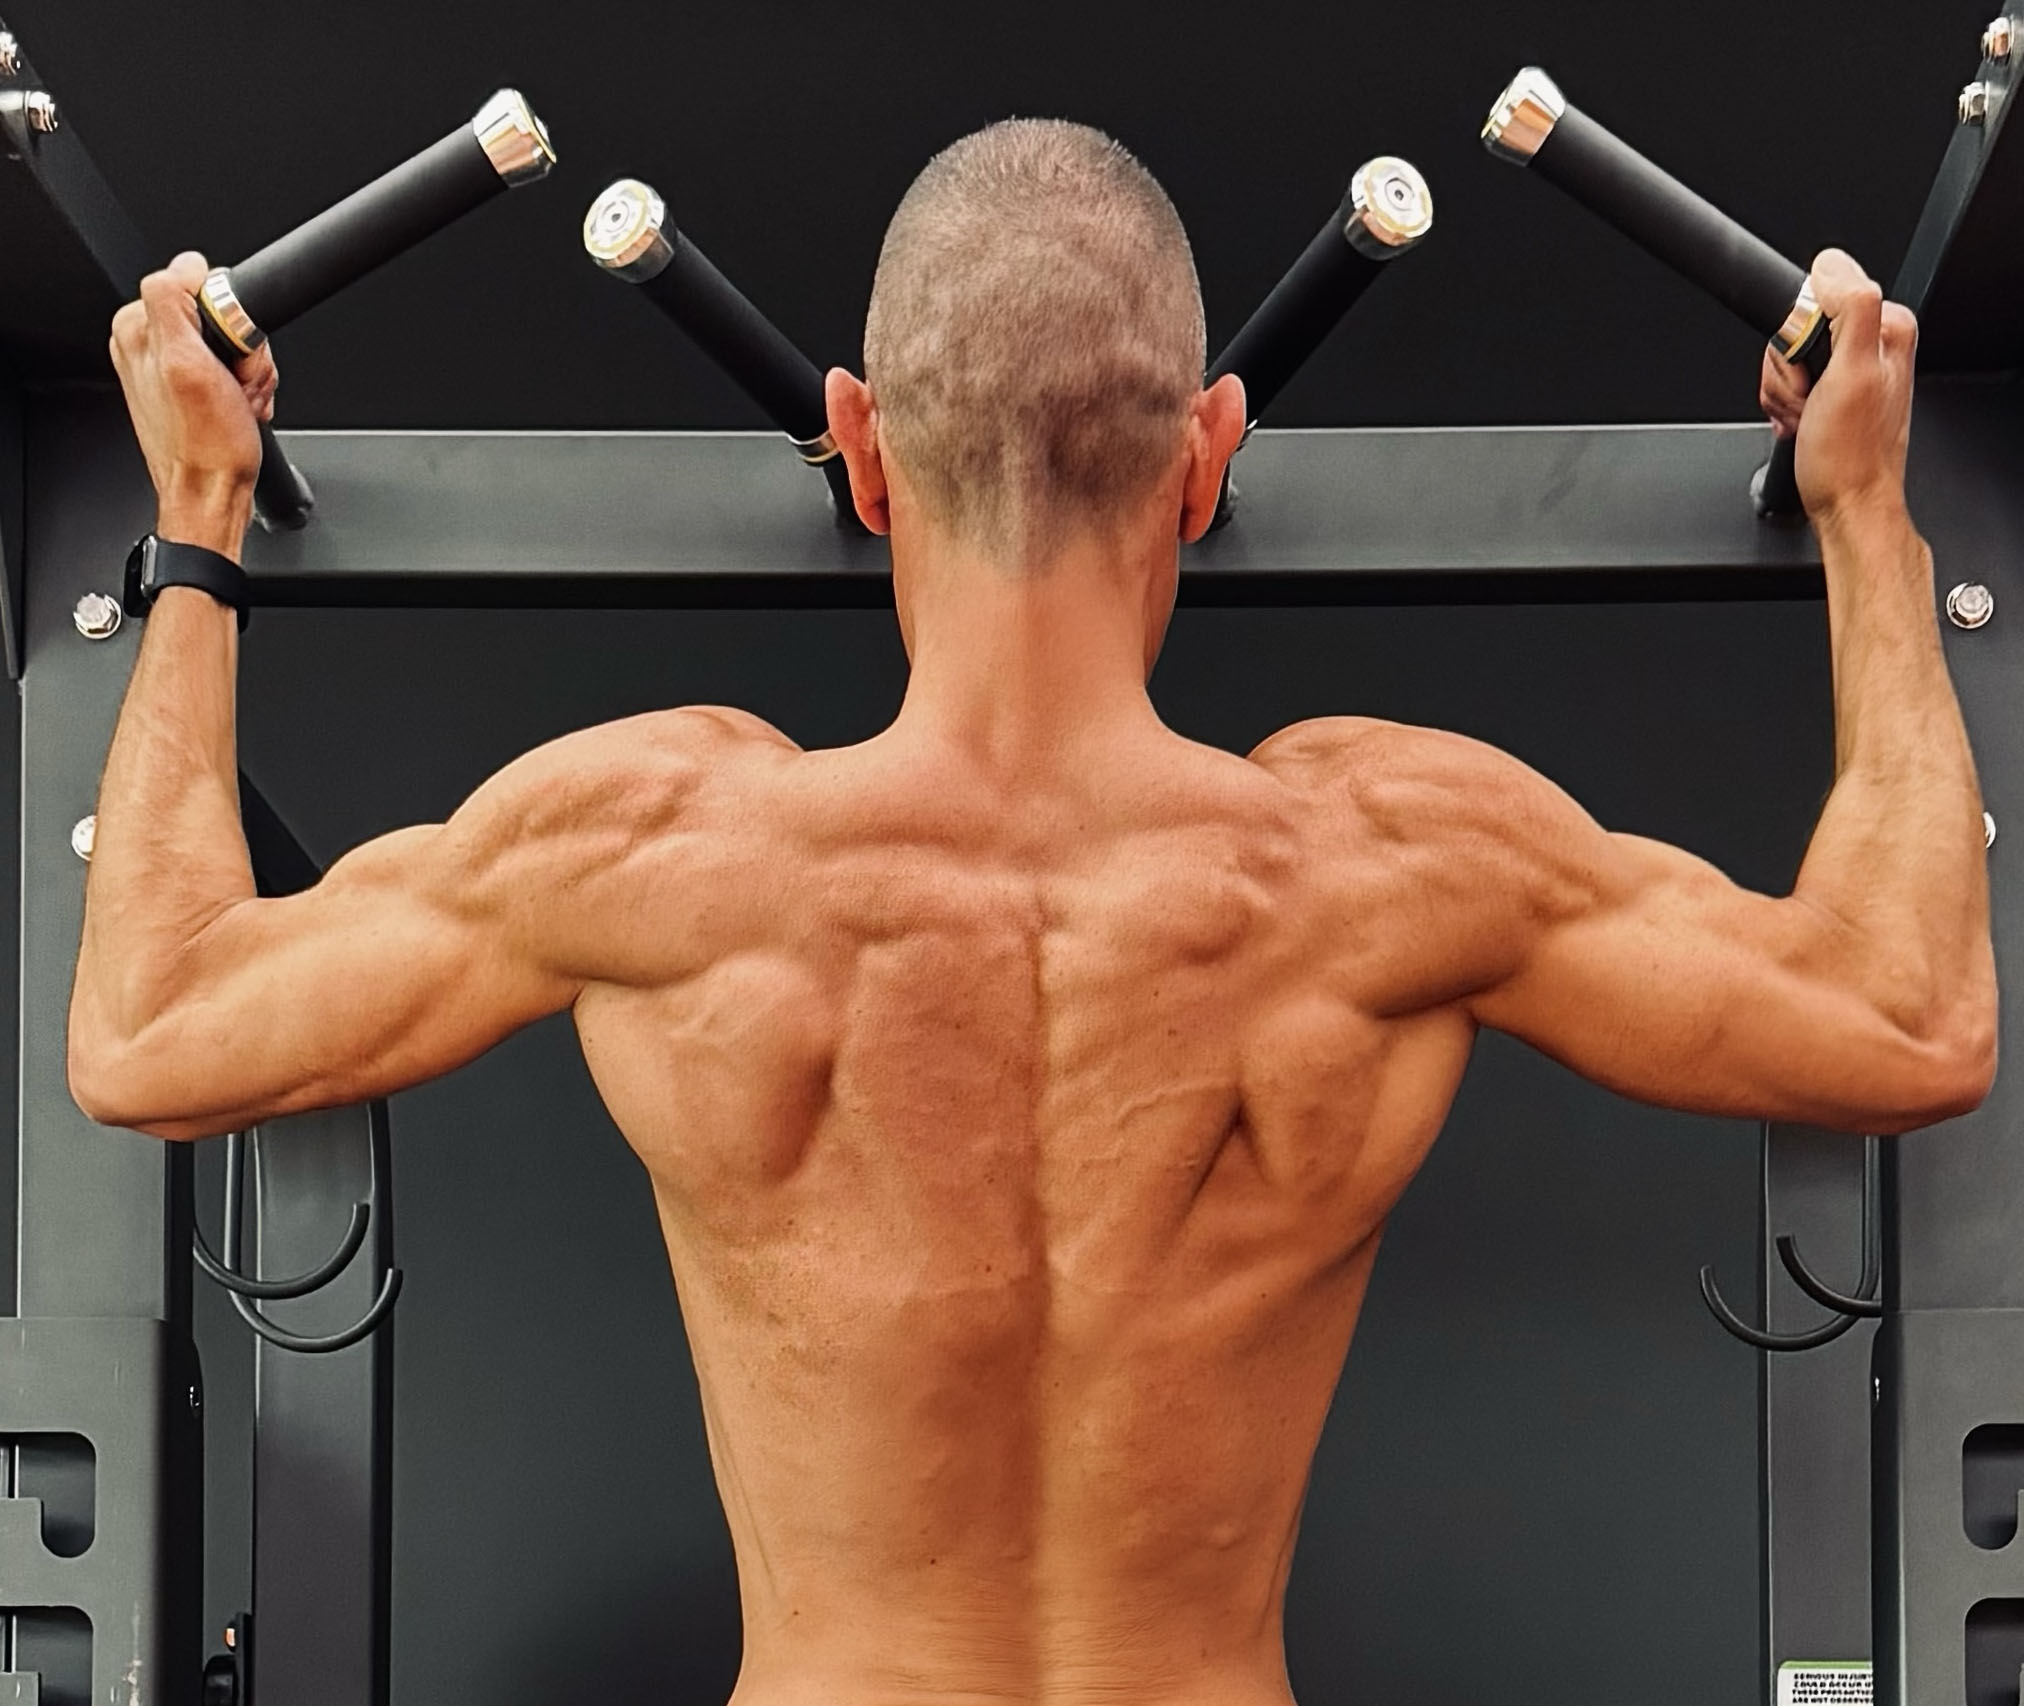
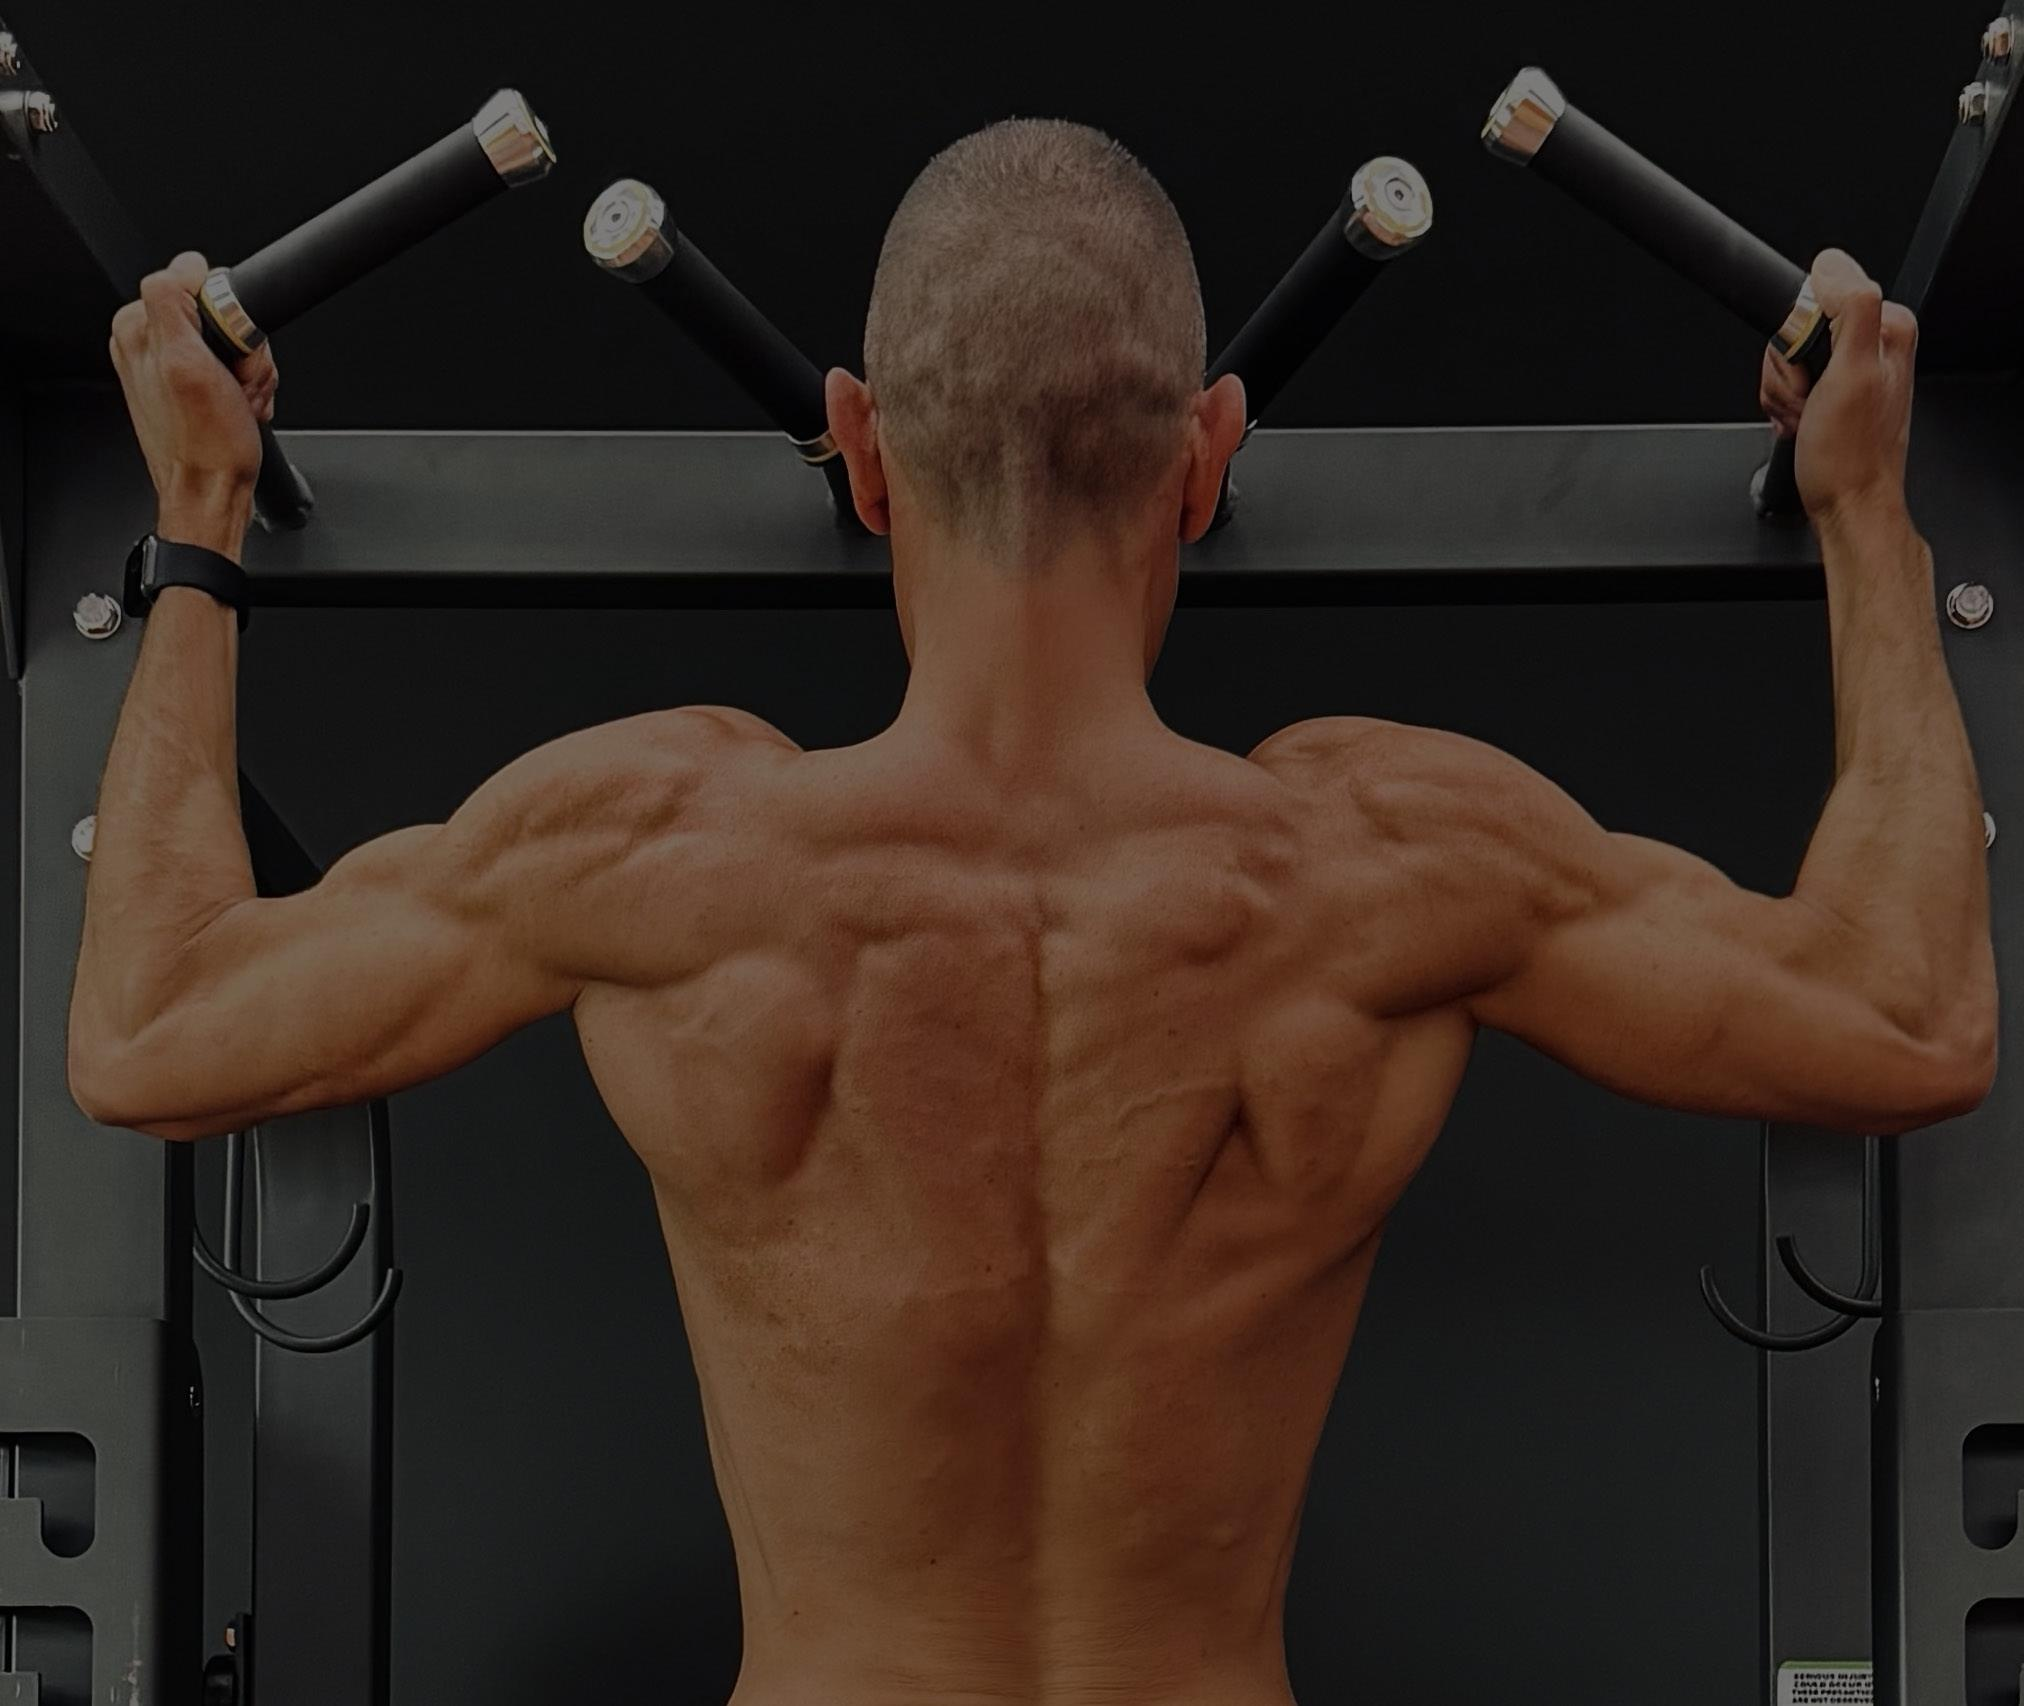
replced images with fixes

diff --git a/elite.html b/elite.html
@@ -163,7 +163,7 @@
       <div class=" mx-auto">
         <div class="flex flex-col md:flex-row">
              <!-- Image Section -->
-             <div class="relative w-full md:w-1/2 h-550 trainer-pic-block elite">
+             <div class="relative w-full md:w-1/2 h-m-550 trainer-pic-block elite">
             </div>
           <!-- Text Section -->
           <div class="p-10 lg:p-20 md:w-1/2 bg-black opacity-90">
@@ -263,57 +263,57 @@
           <div class="flex w-1/2 flex-wrap">
             <div class="w-1/2 p-2 fade-in fade-in-1">
               <img alt="gallery" class="block h-full w-full rounded-md object-cover object-center"
-                src="assets/beat/beat_1.JPG" />
+                src="assets/elite/elite1.JPG" />
             </div>
             <div class="w-1/2 p-2 fade-in fade-in-1">
               <img alt="gallery" class="block h-full w-full rounded-md object-cover object-center"
-                src="assets/temp_images/gallery-3.jpg" />
+                src="assets/elite/elite2.JPG" />
             </div>
             <div class="w-full p-2 fade-in fade-in-1">
               <img alt="gallery" class="block h-full w-full rounded-md object-cover object-center"
-                src="assets/beat/beat_2.JPG" />
+                src="assets/elite/elite3.JPG" />
             </div>
           </div>
           <div class="flex w-1/2 flex-wrap ">
             <div class="w-full p-2 fade-in fade-in-2">
               <img alt="gallery" class="block h-full w-full rounded-md object-cover object-center"
-                src="assets/temp_images/gallery-5.jpg" />
+                src="assets/elite/elite4.JPG" />
             </div>
             <div class="w-1/2 p-2 fade-in fade-in-2">
               <img alt="gallery" class="block h-full w-full rounded-md object-cover object-center"
-                src="assets/beat/beat_main.JPG" />
+                src="assets/elite/elite5.JPG" />
             </div>
             <div class="w-1/2 p-2 fade-in fade-in-2">
               <img alt="gallery" class="block h-full w-full rounded-md object-cover object-center"
-                src="assets/temp_images/gallery-4.jpg" />
+                src="assets/elite/elite6.JPG" />
             </div>
           </div>
           <div class="flex w-1/2 flex-wrap">
             <div class="w-1/2 p-2 fade-in fade-in-1">
               <img alt="gallery" class="block h-full w-full rounded-md object-cover object-center"
-                src="assets/temp_images/gallery-3.jpg" />
+                src="assets/elite/elite7.JPG" />
             </div>
             <div class="w-1/2 p-2 fade-in fade-in-1">
               <img alt="gallery" class="block h-full w-full rounded-md object-cover object-center"
-                src="assets/temp_images/gallery-4.jpg" />
+                src="assets/elite/elite8.JPG" />
             </div>
             <div class="w-full p-2 fade-in fade-in-1">
               <img alt="gallery" class="block h-full w-full rounded-md object-cover object-center"
-                src="assets/temp_images/gallery-2.jpg" />
+                src="assets/elite/elite9.JPG" />
             </div>
           </div>
           <div class="flex w-1/2 flex-wrap ">
             <div class="w-full p-2 fade-in fade-in-2">
               <img alt="gallery" class="block h-full w-full rounded-md object-cover object-center"
-                src="assets/temp_images/gallery-5.jpg" />
+                src="assets/elite/elite10.JPG" />
             </div>
             <div class="w-1/2 p-2 fade-in fade-in-2">
               <img alt="gallery" class="block h-full w-full rounded-md object-cover object-center"
-                src="assets/temp_images/gallery-3.jpg" />
+                src="assets/elite/elite11.JPG" />
             </div>
             <div class="w-1/2 p-2 fade-in fade-in-2">
               <img alt="gallery" class="block h-full w-full rounded-md object-cover object-center"
-                src="assets/temp_images/gallery-6.jpg" />
+                src="assets/elite/elite12.JPG" />
             </div>
           </div>
         </div>

diff --git a/hybrid.html b/hybrid.html
@@ -157,7 +157,7 @@
       <div class=" mx-auto">
         <div class="flex flex-col md:flex-row">
              <!-- Image Section -->
-             <div class="relative w-full md:w-1/2 h-550 trainer-pic-block hybrid">
+             <div class="relative w-full md:w-1/2 h-m-550 trainer-pic-block hybrid">
             </div>
           <!-- Text Section -->
           <div class="p-10 lg:p-20 md:w-1/2 bg-black opacity-90">
@@ -253,32 +253,32 @@
           <div class="flex w-1/2 flex-wrap">
             <div class="w-1/2 p-2 fade-in fade-in-1">
               <img alt="gallery" class="block h-full w-full rounded-md object-cover object-center"
-                src="assets/temp_images/gallery-2.jpg" />
+                src="assets/hybrid/hybrid-main.JPG" />
             </div>
             <div class="w-1/2 p-2 fade-in fade-in-1">
               <img alt="gallery" class="block h-full w-full rounded-md object-cover object-center"
-                src="assets/temp_images/gallery-3.jpg" />
+                src="assets/hybrid/console.jpg" />
             </div>
             <div class="w-full p-2 fade-in fade-in-1">
               <img alt="gallery" class="block h-full w-full rounded-md object-cover object-center"
-                src="assets/temp_images/banner-bg.jpg" />
+                src="assets/hybrid/battle_rope.JPG">
             </div>
           </div>
           <div class="flex w-1/2 flex-wrap ">
             <div class="w-full p-2 fade-in fade-in-2">
               <img alt="gallery" class="block h-full w-full rounded-md object-cover object-center"
-                src="assets/temp_images/gallery-6.jpg" />
+                src="assets/hybrid/pulling.jpg" />
             </div>
-            <div class="w-1/2 p-2 fade-in fade-in-2">
+            <div class="p-2 fade-in fade-in-2">
               <img alt="gallery" class="block h-full w-full rounded-md object-cover object-center"
-                src="assets/temp_images/gallery-5.jpg" />
+                src="assets/hybrid/weight_hold.JPG" />
             </div>
-            <div class="w-1/2 p-2 fade-in fade-in-2">
+            <!-- <div class="w-1/2 p-2 fade-in fade-in-2">
               <img alt="gallery" class="block h-full w-full rounded-md object-cover object-center"
                 src="assets/temp_images/gallery-4.jpg" />
-            </div>
+            </div> -->
           </div>
-          <div class="flex w-1/2 flex-wrap">
+          <!-- <div class="flex w-1/2 flex-wrap">
             <div class="w-1/2 p-2 fade-in fade-in-1">
               <img alt="gallery" class="block h-full w-full rounded-md object-cover object-center"
                 src="assets/temp_images/gallery-3.jpg" />
@@ -291,8 +291,8 @@
               <img alt="gallery" class="block h-full w-full rounded-md object-cover object-center"
                 src="assets/temp_images/gallery-2.jpg" />
             </div>
-          </div>
-          <div class="flex w-1/2 flex-wrap ">
+          </div> -->
+          <!-- <div class="flex w-1/2 flex-wrap ">
             <div class="w-full p-2 fade-in fade-in-2">
               <img alt="gallery" class="block h-full w-full rounded-md object-cover object-center"
                 src="assets/temp_images/gallery-5.jpg" />
@@ -305,7 +305,7 @@
               <img alt="gallery" class="block h-full w-full rounded-md object-cover object-center"
                 src="assets/temp_images/gallery-6.jpg" />
             </div>
-          </div>
+          </div> -->
         </div>
       </div>
 

diff --git a/css/styles.min.css b/css/styles.min.css
@@ -256,6 +256,9 @@ a:hover.back-to-top {
         margin-top: .25rem;
         position: absolute
     }
+    .h-m-550{
+        height: 300px !important;
+    }
 }
 
 @media(max-width:1024px) {
@@ -274,11 +277,27 @@ a:hover.back-to-top {
     }
 
     .offcanvas-collapse {
-        background-image: url(../assets/menu_toggle_bg.JPG);
+        background-image: url(../assets/beat/beat_main.JPG);
         background-position: 50%;
         background-size: cover;
         top: 0
     }
+    .offcanvas-collapse::before {
+        content: "";
+        position: absolute;
+        top: 0;
+        left: 0;
+        width: 100%;
+        height: 100%;
+        background-color: rgba(0, 0, 0, 0.5); /* Black overlay with 50% opacity */
+        z-index: 1; /* Ensure the overlay is above the background image */
+    }
+    
+    .offcanvas-collapse > * {
+        position: relative; /* Ensure content is above the overlay */
+        z-index: 2;
+    }
+
 }
 
 .carousel-1 {
@@ -858,12 +877,12 @@ a:hover.back-to-top {
     }
 
     .card-2 {
-        background-image: url("../assets/elite/man_with_rod.jpg")
+        background-image: url("../assets/elite/elite10.JPG")
 
     }
 
     .card-3 {
-        background-image: url("../assets/elite/girl_weights.JPG");
+        background-image: url("../assets/elite/elite13.JPG");
     }
 }
 
@@ -970,12 +989,12 @@ button {
 }
 
 .icons a:nth-child(1) {
-    color: #1877F2;
-    border-color: #b7d4fb;
+    color: var(--brand-color);
+    border-color: var(--brand--grey);
 }
 
 .icons a:nth-child(1):hover {
-    background: #1877F2;
+    background: var(--brand-color);
 }
 
 .icons a:nth-child(2) {
@@ -1078,7 +1097,7 @@ button {
     height: 100% !important;
     width: 100% !important;
 }
-.h-550{
+.h-m-550{
     height: 550px;
 }
 
@@ -1099,14 +1118,5 @@ button {
 .cookie-banner p {
     margin: 0;
     display: inline-block;
-}
-
-.cookie-button {
-    background-color: var(--brand-color);
-    color: white;
-    border: none;
-    padding: 10px 20px;
-    margin-left: 10px;
-    cursor: pointer;
 }
 

diff --git a/predators.html b/predators.html
@@ -158,7 +158,7 @@
       <div class=" mx-auto">
         <div class="flex flex-col md:flex-row">
              <!-- Image Section -->
-             <div class="relative w-full md:w-1/2 h-550 trainer-pic-block predators">
+             <div class="relative w-full md:w-1/2 h-m-550 trainer-pic-block predators">
             </div>
           <!-- Text Section -->
           <div class="p-10 lg:p-20 md:w-1/2 bg-black opacity-90">
@@ -271,7 +271,7 @@
             </div>
           </div> -->
           <div class="flex w-1/2 flex-wrap ">
-            <div class="w-full p-2 fade-in fade-in-2">
+            <div class="w-1/2 p-2 fade-in fade-in-2">
               <img alt="gallery" class="block h-full w-full rounded-md object-cover object-center"
                 src="assets/predators/girl_with_rod.jpg" />
             </div>
@@ -279,7 +279,7 @@
               <img alt="gallery" class="block h-full w-full rounded-md object-cover object-center"
                 src="assets/predators/guy_pull.JPG" />
             </div>
-            <div class="w-1/2 p-2 fade-in fade-in-2">
+            <div class=" p-2 fade-in fade-in-2">
               <img alt="gallery" class="block h-full w-full rounded-md object-cover object-center"
                 src="assets/predators/bench_dumble.JPG" />
             </div>

diff --git a/js/scripts.js b/js/scripts.js
@@ -127,10 +127,18 @@
     });
 	//Adding cookies Setting
 	$('body').append(`
-	<div id="cookie-banner" class="cookie-banner">
-		<p>We use cookies to ensure you get the best experience on our website. <a href="/privacy.html">Learn more</a>.</p>
-		<button id="accept-cookies" class="cookie-button rounded-full">Accept</button>
-	</div>
+<div id="cookie-banner" class="cookie-banner flex items-center justify-between p-4 bg-gray-800 text-white">
+    <p class="flex-1">
+        We use cookies to ensure you get the best experience on our website. 
+        <a href="/privacy.html" class="underline" aria-label="Read our privacy policy to learn more about how we use cookies">
+            Read our privacy policy
+        </a>.
+    </p>
+    <button id="close-cookie-banner" class="flex-shrink-0 bg-transparent border-0 p-2 ml-4 align-middle" aria-label="Close cookie banner">
+      <i class="fa fa-times" aria-hidden="true"></i>
+    </button>
+</div>
+
 `);
 
 var $banner = $('#cookie-banner');

diff --git a/beat.html b/beat.html
@@ -163,7 +163,7 @@
       <div class=" mx-auto">
         <div class="flex flex-col md:flex-row">
              <!-- Image Section -->
-             <div class="relative w-full md:w-1/2 h-550 trainer-pic-block beat">
+             <div class="relative w-full md:w-1/2 h-m-550 trainer-pic-block beat">
             </div>
           <!-- Text Section -->
           <div class="p-10 lg:p-20 md:w-1/2 bg-black opacity-90">
@@ -197,7 +197,7 @@
 
     <div class="h-1/2 w-full bg-brand-grey flex items-center justify-center">
       <div class="p-8 text-center">
-        <h2 class="text-6xl font-bold text-white mb-4 pt-5 uppercase fade-in fade-in-2">What we can <strong
+        <h2 class="text-6xl font-bold text-white mb-4 pt-5 uppercase fade-in fade-in-2">What we <strong
             class="text-brand">offer? </strong></h2>
         <div class="h-3 bg-brand w-8 mx-auto mb-8 rounded text-slide-up opacity-80 fade-in"></div>
         <p class="text-2xl text-white">

diff --git a/index.html b/index.html
@@ -502,7 +502,7 @@
         <div class="table-cell	text-center align-middle">
             <div class="text-center pt-4">
                 <h2 class="text-5xl font-bold text-white mb-4 my-5 uppercase fade-in">SOME <strong
-                        class="text-brand">QUESTIONS </strong> WHAT WE DO</h2>
+                        class="text-brand">QUESTIONS </strong>ABOUT WHAT WE DO</h2>
                 <div class="h-3 bg-brand w-8 mx-auto mb-20 rounded fade-in opacity-80"></div>
 
             </div>

diff --git a/reshape.html b/reshape.html
@@ -174,7 +174,7 @@
 
           </div>
              <!-- Image Section -->
-             <div class="relative w-full md:w-1/2 h-550 trainer-pic-block reshape">
+             <div class="relative w-full md:w-1/2 h-m-550 trainer-pic-block reshape">
             </div>
        
         </div>
